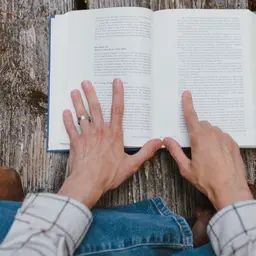
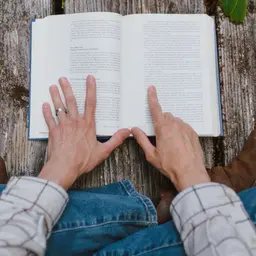
Launch popup on the public site; Admin users show plan and signup; new Reading photo
- The site popup announces the launch campaign while places are left
  ("Restam X vagas"), once per visit; it stops once the 10 are taken.
- Admin users table: plan (Premium/Free, until when, launch campaign),
  signup date and time since signup.
- Reading review photo updated to the owner's new picture.

Claude-Session: https://claude.ai/code/session_01J4mnLTKgmABHoSQbGZ8wnB

diff --git a/src/routes/_authenticated/admin.tsx b/src/routes/_authenticated/admin.tsx
@@ -164,14 +164,41 @@ function AdminPage() {
                     <thead className="sticky top-0 bg-background">
                       <tr className="border-b border-border text-xs font-semibold uppercase text-muted-foreground">
                         <th className="py-2 pr-3">{t("Name")}</th>
-                        <th className="py-2">{t("Email")}</th>
+                        <th className="py-2 pr-3">{t("Email")}</th>
+                        <th className="py-2 pr-3">{t("Plan")}</th>
+                        <th className="py-2 pr-3">{t("Signed up")}</th>
+                        <th className="py-2">{t("Member for")}</th>
                       </tr>
                     </thead>
                     <tbody>
                       {usersQuery.data?.users.map((user, index) => (
                         <tr key={`${user.email}-${index}`} className="border-b border-border/60">
                           <td className="py-2 pr-3 font-medium">{user.name}</td>
-                          <td className="py-2 text-muted-foreground">{user.email}</td>
+                          <td className="py-2 pr-3 text-muted-foreground">{user.email}</td>
+                          <td className="py-2 pr-3">
+                            <span
+                              className={`inline-flex rounded-full px-2 py-0.5 text-xs font-semibold ${user.plan === "premium" ? "bg-warning/15 text-warning" : "bg-secondary text-muted-foreground"}`}
+                            >
+                              {user.plan === "premium" ? "Premium" : "Free"}
+                            </span>
+                            {user.campaign ? (
+                              <span className="ml-1.5 text-[11px] text-muted-foreground">
+                                {t("launch campaign")}
+                              </span>
+                            ) : null}
+                            {user.premiumUntil ? (
+                              <span className="block text-[11px] text-muted-foreground">
+                                {t("until")}{" "}
+                                {new Date(user.premiumUntil).toLocaleDateString("pt-BR")}
+                              </span>
+                            ) : null}
+                          </td>
+                          <td className="py-2 pr-3 whitespace-nowrap text-muted-foreground">
+                            {new Date(user.createdAt).toLocaleDateString("pt-BR")}
+                          </td>
+                          <td className="py-2 whitespace-nowrap text-muted-foreground">
+                            {memberFor(user.createdAt, lang)}
+                          </td>
                         </tr>
                       ))}
                     </tbody>
@@ -201,4 +228,25 @@ function AdminPage() {
       </div>
     </AppShell>
   );
+}
+
+/** "Today", "3 days", "2 months", "1 year" since signing up. */
+function memberFor(createdAt: string, lang: string, now = new Date()) {
+  const days = Math.max(
+    0,
+    Math.floor((now.getTime() - new Date(createdAt).getTime()) / 86_400_000),
+  );
+  const pt = lang === "pt";
+  if (days === 0) return pt ? "Hoje" : "Today";
+  if (days < 30)
+    return pt ? `${days} ${days === 1 ? "dia" : "dias"}` : `${days} ${days === 1 ? "day" : "days"}`;
+  const months = Math.floor(days / 30);
+  if (months < 12)
+    return pt
+      ? `${months} ${months === 1 ? "mês" : "meses"}`
+      : `${months} ${months === 1 ? "month" : "months"}`;
+  const years = Math.floor(days / 365);
+  return pt
+    ? `${years} ${years === 1 ? "ano" : "anos"}`
+    : `${years} ${years === 1 ? "year" : "years"}`;
 }

diff --git a/src/lib/admin.functions.ts b/src/lib/admin.functions.ts
@@ -53,15 +53,63 @@ export const listRegisteredUsers = createServerFn({ method: "GET" })
     const { supabaseAdmin } = await import("@/integrations/supabase/client.server");
     const { data, error, count } = await supabaseAdmin
       .from("profiles")
-      .select("name, email", { count: "exact" })
+      .select("id, name, email, created_at, plan, plan_expires_at", { count: "exact" })
       .order("created_at", { ascending: false })
       .limit(500);
 
     if (error) throw error;
 
+    // Premium = a valid entitlement (the commercial authority), else a profile
+    // plan that has not ended; the launch campaign's places are marked.
+    const ids = (data ?? []).map((row) => row.id);
+    const now = new Date();
+    const [{ data: entitlements }, { data: grants }] = await Promise.all([
+      ids.length
+        ? supabaseAdmin
+            .from("entitlements")
+            .select("user_id, expires_at, revoked_at")
+            .in("user_id", ids)
+            .eq("plan", "premium")
+        : Promise.resolve({
+            data: [] as { user_id: string; expires_at: string | null; revoked_at: string | null }[],
+          }),
+      ids.length
+        ? supabaseAdmin
+            .from("premium_campaign_grants" as never)
+            .select("user_id, expires_at")
+            .in("user_id" as never, ids as never)
+        : Promise.resolve({ data: [] }),
+    ]);
+    const premiumUntil = new Map<string, string | null>();
+    for (const row of entitlements ?? []) {
+      if (row.revoked_at) continue;
+      if (row.expires_at && new Date(row.expires_at) <= now) continue;
+      const current = premiumUntil.get(row.user_id);
+      if (current === null) continue;
+      premiumUntil.set(
+        row.user_id,
+        !row.expires_at ? null : current && current > row.expires_at ? current : row.expires_at,
+      );
+    }
+    const campaign = new Set(((grants ?? []) as { user_id: string }[]).map((row) => row.user_id));
+
     return {
       total: count ?? data.length,
-      users: (data ?? []).map((row) => ({ name: row.name, email: row.email ?? "" })),
+      users: (data ?? []).map((row) => {
+        const profilePremium =
+          row.plan === "premium" && (!row.plan_expires_at || new Date(row.plan_expires_at) > now);
+        const premium = premiumUntil.has(row.id) || profilePremium;
+        return {
+          name: row.name,
+          email: row.email ?? "",
+          createdAt: row.created_at,
+          plan: premium ? ("premium" as const) : ("free" as const),
+          premiumUntil: premium
+            ? (premiumUntil.get(row.id) ?? (profilePremium ? row.plan_expires_at : null))
+            : null,
+          campaign: campaign.has(row.id),
+        };
+      }),
     };
   });
 

diff --git a/src/routes/index.tsx b/src/routes/index.tsx
@@ -7,6 +7,7 @@ import appMistakes from "@/assets/home/app-mistakes.jpg";
 import evoImage from "@/assets/evo-landing.webp";
 import evoProfile from "@/assets/evo-profile.jpg.asset.json";
 import { Footer } from "@/components/Footer";
+import { LaunchCampaignPopup } from "@/components/home/LaunchCampaignPopup";
 import { BrandName } from "@/components/BrandName";
 import { Logo } from "@/components/Logo";
 import { Button } from "@/components/ui/button";
@@ -90,6 +91,7 @@ const productScreens = [
 function CommercialLanding() {
   return (
     <div className="dashboard-shell brand-dashboard-theme dark min-h-screen overflow-x-clip bg-background text-foreground">
+      <LaunchCampaignPopup />
       <header className="sticky top-0 z-50 border-b border-border/70 bg-background/90 backdrop-blur-xl">
         <div className="mx-auto flex h-16 max-w-7xl items-center justify-between gap-3 px-4 sm:px-6 lg:px-8">
           <Link

diff --git a/src/components/home/LaunchCampaignPopup.tsx b/src/components/home/LaunchCampaignPopup.tsx
@@ -52,7 +52,7 @@ export function LaunchCampaignPopup() {
 
   return (
     <Dialog open={open} onOpenChange={setOpen}>
-      <DialogContent className="dashboard-shell brand-dashboard-theme dark max-w-md border-brand-green/40 bg-card text-foreground">
+      <DialogContent className="dashboard-shell brand-dashboard-theme dark w-[calc(100%-2rem)] max-w-md rounded-2xl border-brand-green/40 bg-card text-foreground">
         <div className="flex items-center gap-3">
           <img
             src={evoProfile.url}

diff --git a/src/lib/uiDictionary.ts b/src/lib/uiDictionary.ts
@@ -855,6 +855,10 @@ export const uiPt: Record<string, string> = {
   // Subscription portal (Phase 7)
   "My subscription": "Minha assinatura",
   Plan: "Plano",
+  until: "até",
+  "Signed up": "Cadastro",
+  "Member for": "Tempo de cadastro",
+  "launch campaign": "campanha de lançamento",
   "Billing period": "Periodicidade",
   Status: "Status",
   Active: "Ativa",
